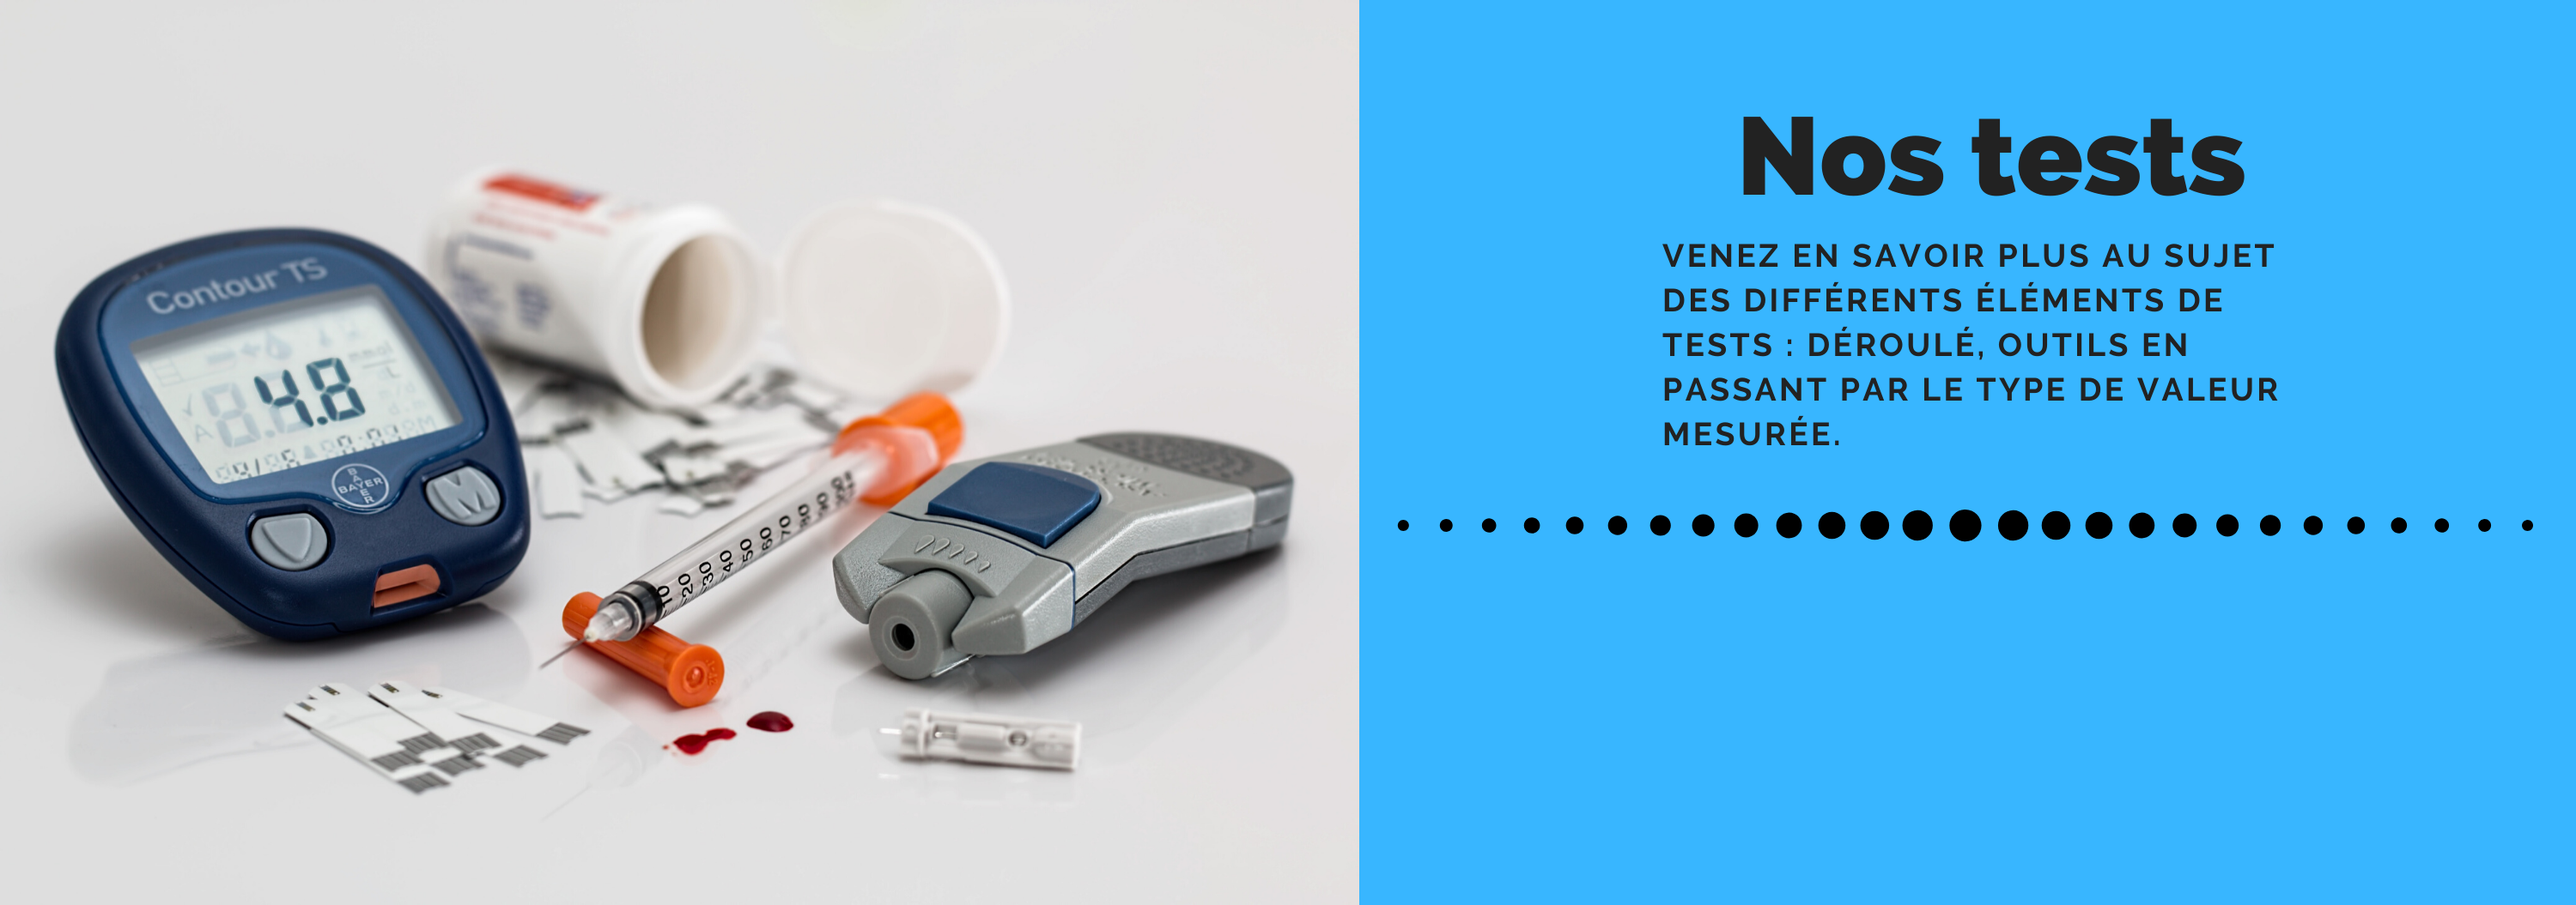
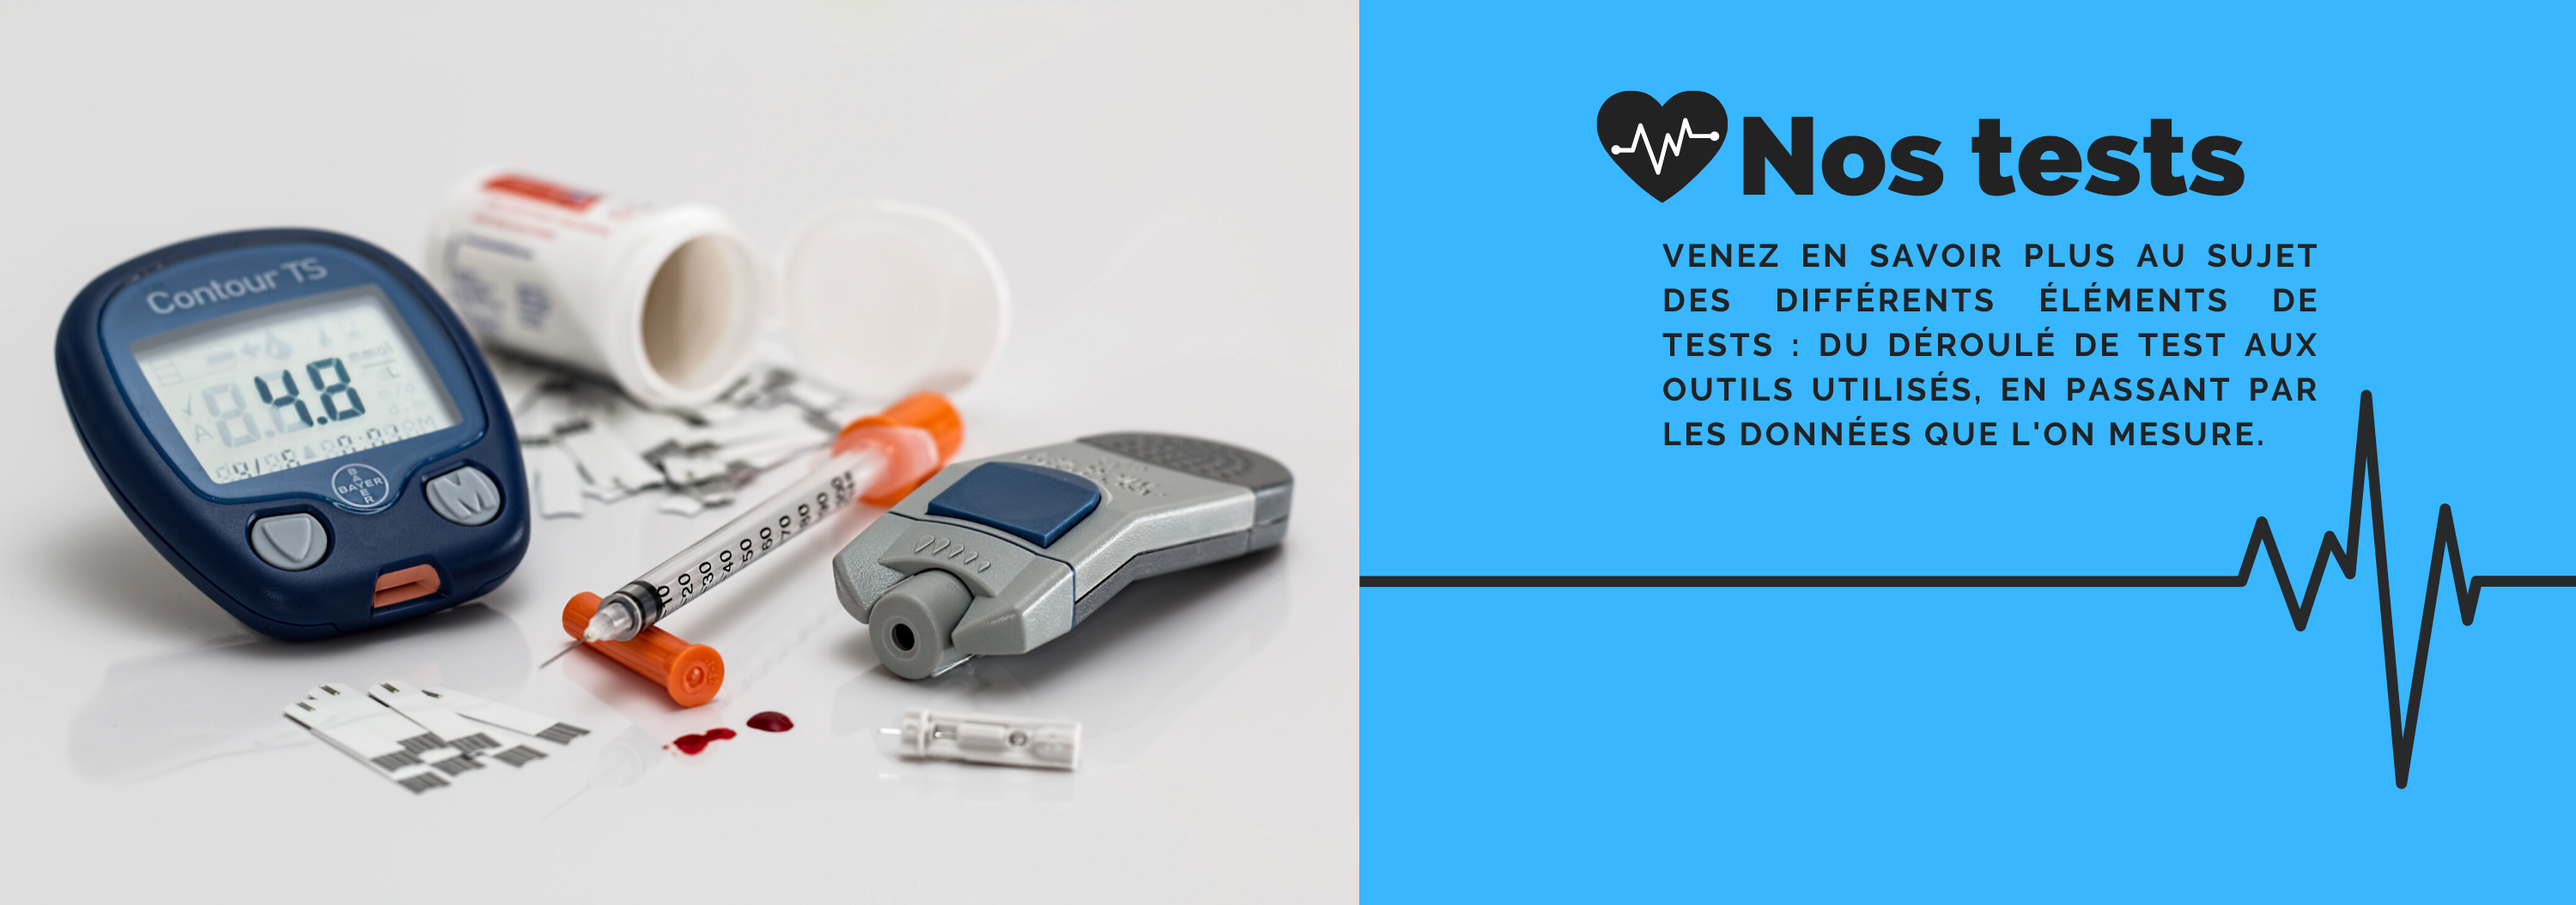
finalisation première partie header
remplacement de l'image, introduction du bouton

Changed region(s): [[0.527, 0.273, 1.0, 0.8796], [0.62, 0.091, 0.682, 0.2123]]

diff --git a/design/index.css b/design/index.css
@@ -19,6 +19,41 @@ body {
 }
 
 
+.know_more{
+
+  position: absolute;
+  bottom: 130px;
+  right: 300px;
+
+  font:bold 30px Roboto-Light;
+  color: white;
+  text-decoration: none;
+  padding:10px 10px 10px 10px;
+  background: #28292A;
+  border-radius:10px;
+  border: 2px solid white;
+  box-shadow:2px 2px 8px rgba(100,100,100,1);
+
+}
+
+.know_more:hover{
+  
+  color : #00D4FF;
+}
+
+.know_more:active{
+    color:white;
+    border-color: #F6F1F0;
+    box-shadow:2px 2px 8px white;
+}
+
+
+
+
+
+
+
+
 
 
 

diff --git a/Vues/index.vue.php b/Vues/index.vue.php
@@ -14,9 +14,10 @@
         <!--BODY --------------------------------- -->
         <div class="test" align="center">
           <img class="image" src="ressources/Nos_tests.png" alt="Alt text"/>
+          <a href=""></a><button class="know_more">En savoir plus</button>
         </div>
         
-
+<!-- 
         <center>
           <div class="img_test"><a href="nos_tests.php">
             <img class="image" src="ressources/ill_test.jpg" alt="Alt text"/>
@@ -31,7 +32,7 @@
           </a>
           </div>
         <br><a href=""></a><button class="boutons_accueil">En savoir plus</button></br>
-        </center>
+        </center> -->
 
 
       <div class=images_down>
